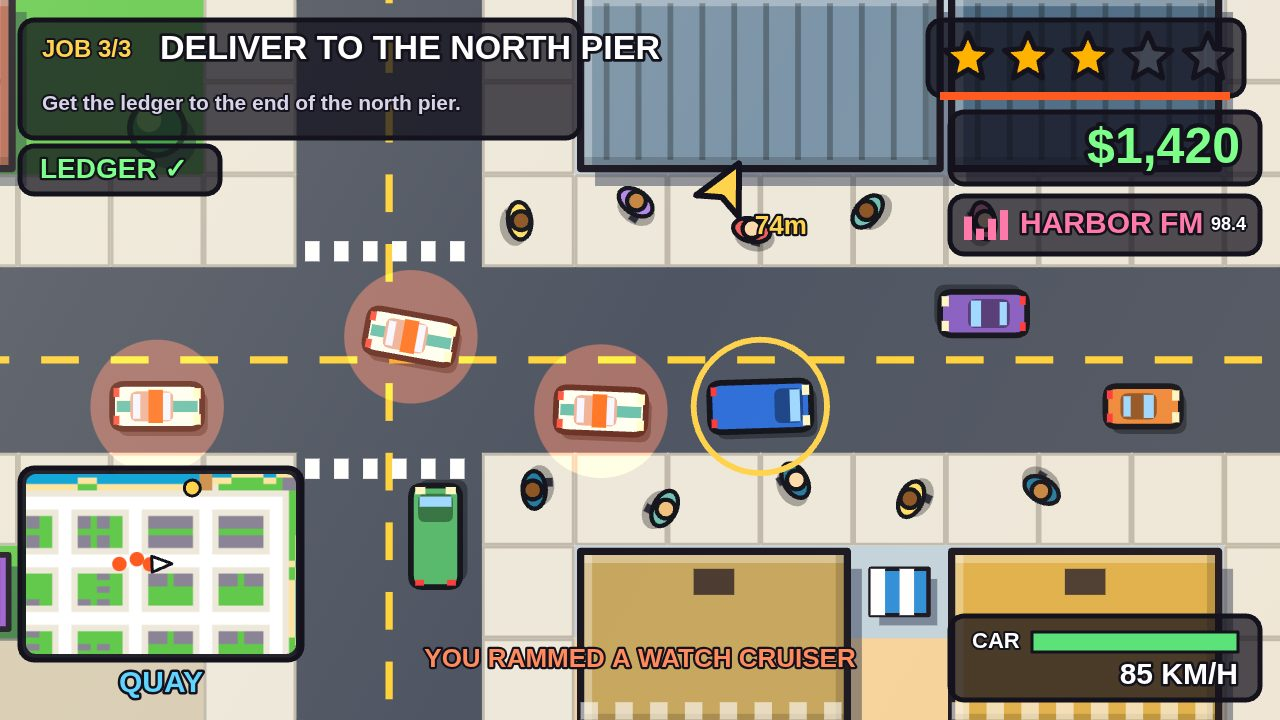
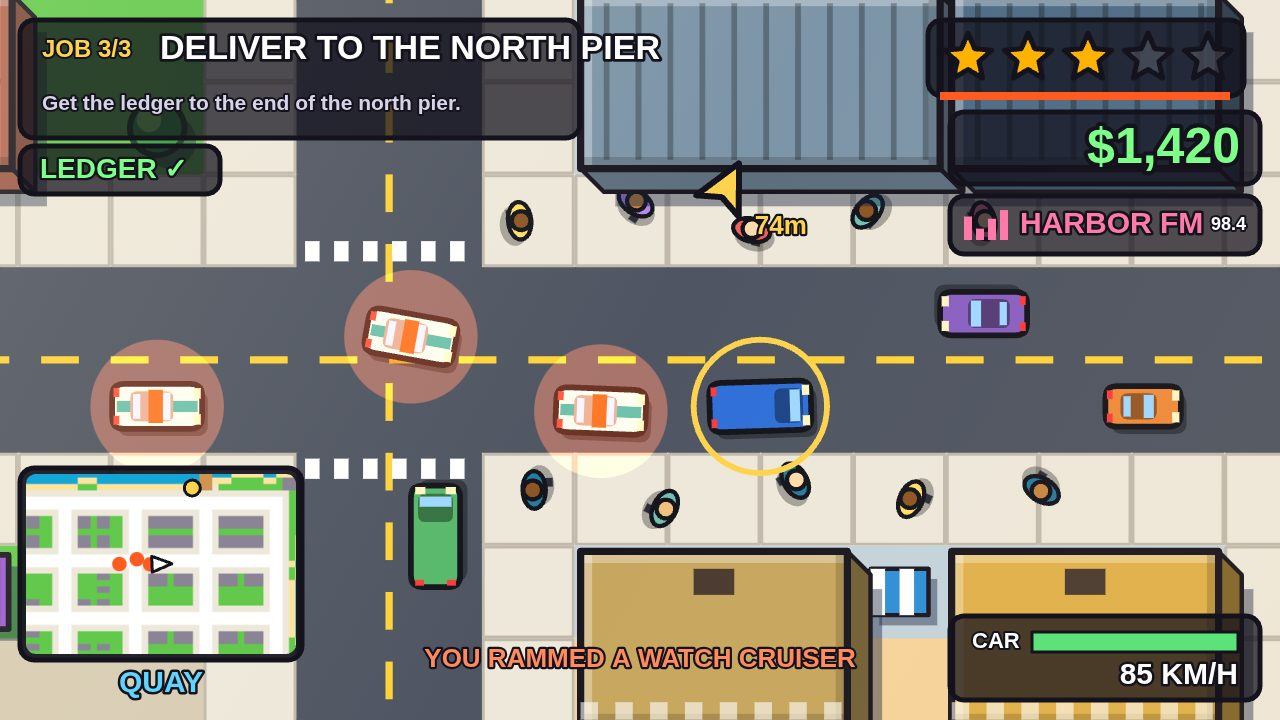
Give buildings depth: shaded 16px right and bottom faces under the lit roof, longer cast shadow; retake screenshots

diff --git a/game/src/render.js b/game/src/render.js
@@ -118,8 +118,24 @@ function drawBuilding(ctx, b) {
   const y = b.r0 * T + 4;
   const w = (b.c1 - b.c0 + 1) * T - 8;
   const h = (b.r1 - b.r0 + 1) * T - 8;
+  const d = 16;
   ctx.fillStyle = SHADOW;
-  ctx.fillRect(x + 10, y + 12, w, h);
+  ctx.fillRect(x + d + 8, y + d + 10, w, h);
+  const right = [[x + w, y], [x + w + d, y + d], [x + w + d, y + h + d], [x + w, y + h]];
+  const bottom = [[x, y + h], [x + w, y + h], [x + w + d, y + h + d], [x + d, y + h + d]];
+  for (const [face, shade] of [[right, 'rgba(0,0,0,0.42)'], [bottom, 'rgba(0,0,0,0.26)']]) {
+    ctx.beginPath();
+    ctx.moveTo(face[0][0], face[0][1]);
+    for (let i = 1; i < face.length; i++) ctx.lineTo(face[i][0], face[i][1]);
+    ctx.closePath();
+    ctx.fillStyle = b.roof;
+    ctx.fill();
+    ctx.fillStyle = shade;
+    ctx.fill();
+    ctx.strokeStyle = '#1a1620';
+    ctx.lineWidth = 3;
+    ctx.stroke();
+  }
   ctx.fillStyle = b.roof;
   ctx.strokeStyle = '#1a1620';
   ctx.lineWidth = 5;
